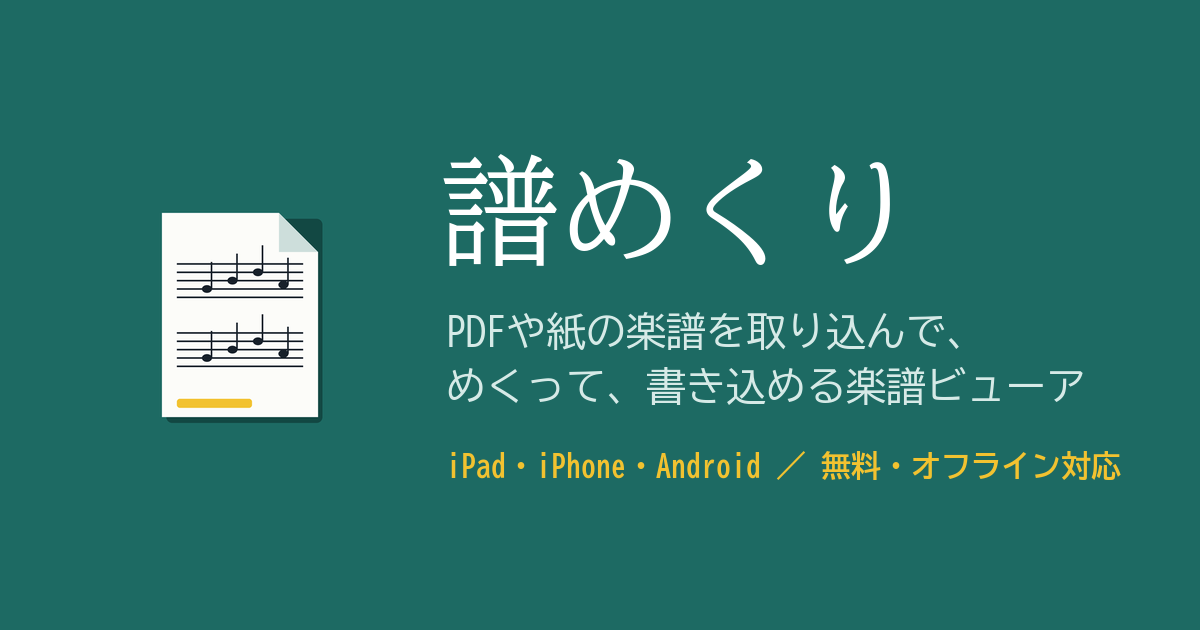
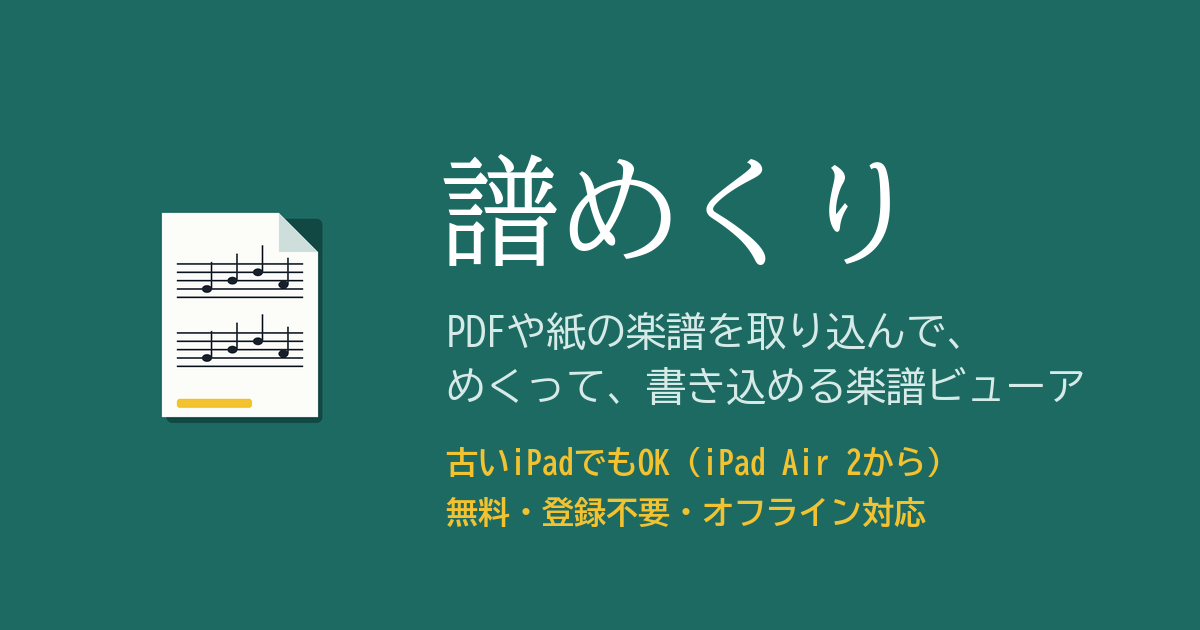
動作環境を明記（iPadOS 15.4以降・Chrome 92以降）、古い端末ではアップデート案内を表示（1.3.1）

Changed region(s): [[0.37, 0.6937, 0.9558, 0.8444], [0.37, 0.7841, 0.555, 0.8444]]

diff --git a/index.html b/index.html
@@ -21,6 +21,27 @@
 <link rel="apple-touch-icon" href="icons/apple-touch-icon.png">
 <link rel="icon" href="icons/icon-192.png">
 <link rel="stylesheet" href="styles.css">
+<script>
+/* Requirement check: PDF.js 3.11 needs Safari 15.4+ / Chrome 92+. Show a clear message instead of a blank screen. */
+(function () {
+  var ok;
+  try {
+    ok = typeof Array.prototype.at === 'function' && 'indexedDB' in window;
+    new Function('class A{#a(){return 1}static b(){return new A().#a()}}');
+  } catch (e) { ok = false; }
+  if (ok) return;
+  window.__fmkUnsupported = true;
+  document.addEventListener('DOMContentLoaded', function () {
+    document.body.innerHTML = '<div style="position:fixed;top:0;right:0;bottom:0;left:0;overflow:auto;background:#EDF0F2;color:#17202A;padding:40px 20px;font:16px/1.7 sans-serif">'
+      + '<div style="max-width:560px;margin:0 auto;background:#fff;border:1px solid #D2D9DF;border-radius:14px;padding:24px">'
+      + '<h1 style="font-size:22px;margin:0 0 12px">この端末では譜めくりを使えません</h1>'
+      + '<p style="margin:0 0 12px">お使いのブラウザが古いため、楽譜を表示できません。次のバージョンに更新してください。</p>'
+      + '<ul style="margin:0 0 12px;padding-left:1.2em"><li>iPad・iPhone：iPadOS / iOS 15.4 以降<br><small>「設定」→「一般」→「ソフトウェアアップデート」で更新できます</small></li><li>Android：Chrome 92 以降</li></ul>'
+      + '<p style="margin:0;color:#56626E;font-size:14px">iPad Air 2・iPad mini 4 以降の iPad、iPhone 6s 以降の iPhone なら、無料のアップデートで使えるようになります。</p>'
+      + '</div></div>';
+  });
+})();
+</script>
 </head>
 <body>
 <div id="app">

diff --git a/app.js b/app.js
@@ -4,7 +4,8 @@
    ========================================================= */
 (() => {
 'use strict';
-const VERSION = '1.3.0';
+if (window.__fmkUnsupported) return; // index.html shows the "please update" message
+const VERSION = '1.3.1';
 
 /* ---------- Utilities ---------- */
 const $ = (s, r = document) => r.querySelector(s);

diff --git a/sw.js b/sw.js
@@ -1,5 +1,5 @@
 /* 自動生成ファイル: build_sw.py で作り直してください */
-const CACHE = "fumekuri-85c38d67dadc";
+const CACHE = "fumekuri-d84c125df14d";
 const PRECACHE = [
 "./",
 "app.js",

diff --git a/README.md b/README.md
@@ -26,11 +26,37 @@ iPad・iPhone・Androidのブラウザで動き、ホーム画面に追加する
 - **整理**：フォルダ、検索（ひらがな・カタカナを区別しない）、複製、セットリスト（曲順どおりに続けてめくる）
 - **バックアップ**：すべての楽譜と書き込みを1つのファイルに書き出し・復元
 
-## 動作環境
+## 動作環境 — 古い iPad でも使えます
 
-- iPad / iPhone：iPadOS・iOS 16 以降の Safari
-- Android：Chrome の最新版
-- パソコンの Chrome・Edge・Safari でも動きます
+アプリ自体がとても軽く（約4MB）、**2014年発売の iPad Air 2 まで**さかのぼって使えるように作っています。使わなくなった iPad を、楽譜専用の端末として再利用できます。
+
+| | 必要なもの |
+|---|---|
+| iPad・iPhone | **iPadOS / iOS 15.4 以降**の Safari |
+| Android | **Android 7.0 以降**、**Chrome 92 以降** |
+| パソコン | Chrome・Edge 92 以降、Safari 15.4 以降、Firefox（最新版） |
+
+### 使える iPad・iPhone の目安
+
+| 端末 | 発売年 | 入れられる最新OS | 譜めくり |
+|---|---|---|---|
+| iPad Air 2 | 2014年 | iPadOS 15.8 | ○ |
+| iPad mini 4 | 2015年 | iPadOS 15.8 | ○ |
+| iPad Pro（9.7インチ／12.9インチ 第1世代） | 2015〜2016年 | iPadOS 16.7 | ○（**実機で動作確認済み**） |
+| iPad（第5世代） | 2017年 | iPadOS 16.7 | ○ |
+| これより新しい iPad すべて | 2017年〜 | iPadOS 17 以降 | ○ |
+| iPad Air（第1世代）、iPad mini 2・3 | 2013〜2014年 | iOS 12.5 | ×（OSを15.4にできないため） |
+| iPhone 6s・SE（第1世代）・7 以降 | 2015年〜 | iOS 15.8 以降 | ○ |
+| iPhone 6・5s 以前 | 〜2014年 | iOS 12.5 | × |
+
+- iPadOS 15.0〜15.3 の端末は、「設定」→「一般」→「ソフトウェアアップデート」で 15.4 以降に更新してください（無料）。
+- 動かない端末で開くと、アップデートを案内する画面が出ます。
+- 実機で動作を確認しているのは、今のところ初代 iPad Pro（iPadOS 16）です。ほかの端末は、使っている部品（PDF.js 3.11）の対応範囲から判断しています。動いた・動かなかったの報告を [Issues](https://github.com/satorun-run/fumekuri/issues) にいただけると助かります。
+
+### 古い端末で快適に使うコツ
+
+- メモリが 2GB の端末（iPad Air 2・iPad mini 4・iPhone 6s など）では、数百ページあるPDFや高解像度のスキャンPDFは表示に時間がかかることがあります。曲ごとにPDFを分けると軽くなります。
+- 演奏中に画面が消えないよう、iPadOS 16.4 より前の端末では「設定」→「画面表示と明るさ」→「自動ロック」を「なし」にしてください。
 
 ## プライバシー
 
